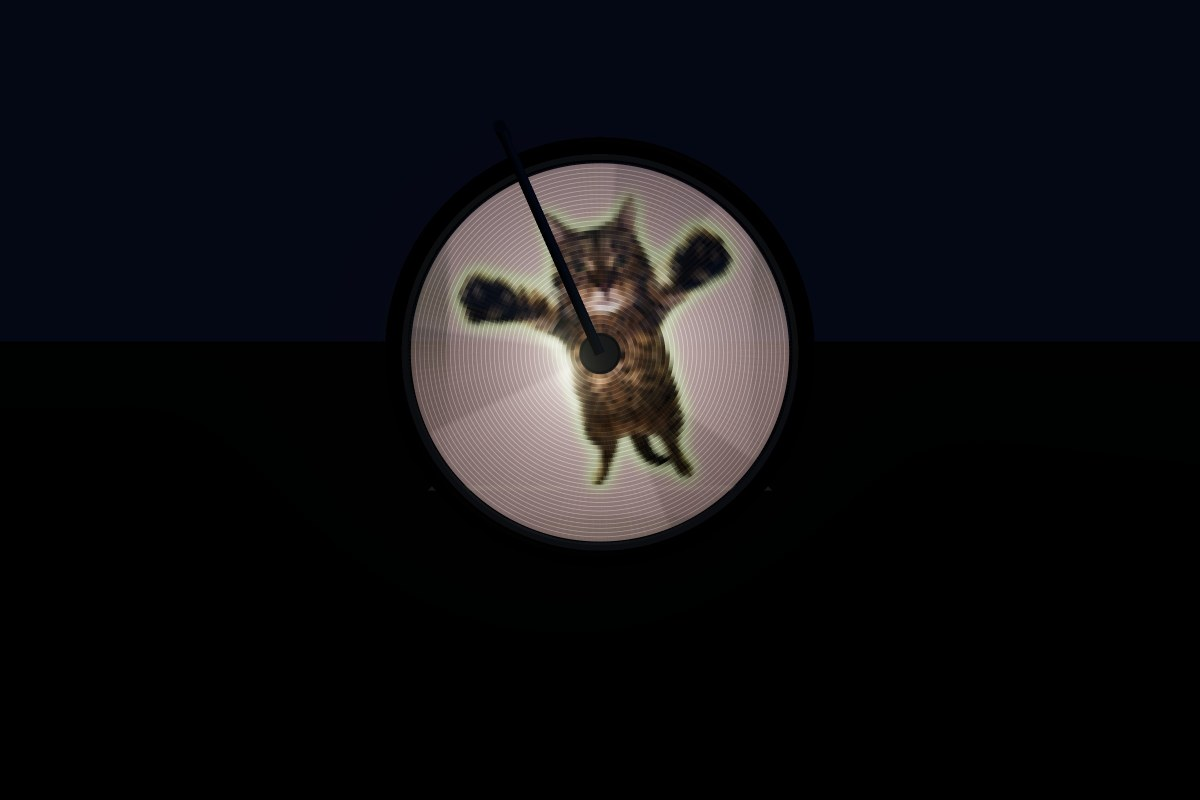
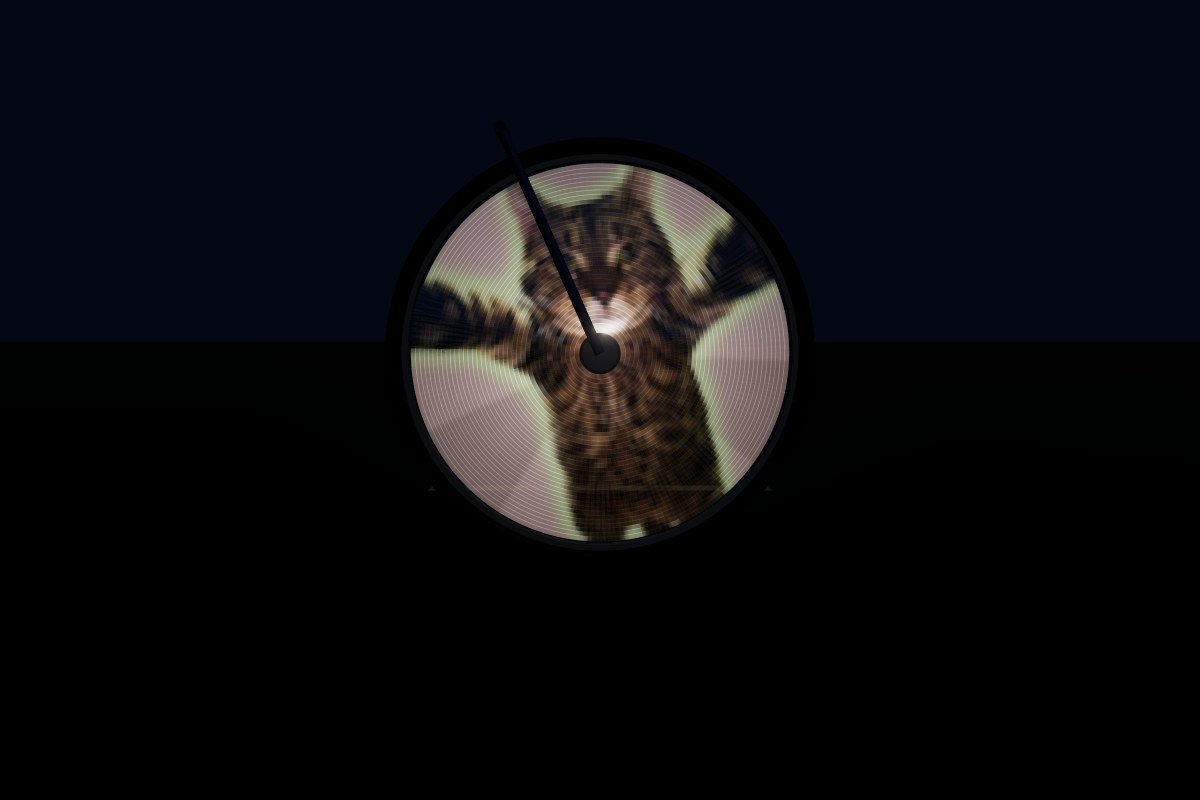
Zoom the Soup photo to 125% with the chin just above the hub

Changed region(s): [[0.3392, 0.1875, 0.6475, 0.6875]]

diff --git a/README.md b/README.md
@@ -32,7 +32,7 @@ These are all renders from the simulator, starting from the Water preset and the
   </tr>
   <tr>
     <td width="50%"><img src="docs/images/dryer-ride.jpg" alt="Colourful ribbons tumbling up the rear side of the wheel"><br><sub><b>Tumble dryer preset,</b> 12 mph, 1/4 s: the paddles carry the ribbons up the rear side of the drum until they fall back, the nearer ribbons covering the ones behind.</sub></td>
-    <td width="50%"><img src="docs/images/soup-preset.jpg" alt="A photo of a cat cropped to fill the wheel"><br><sub><b>Soup preset,</b> 15 mph, 1/2 s: your own picture (here the author's photo of a cat, from <code>media/</code>), zoomed out and moved so the hub sits on its chest, with the whole cat in view; a heavily blurred mirror of the photo fills the rest of the wheel.</sub></td>
+    <td width="50%"><img src="docs/images/soup-preset.jpg" alt="A photo of a cat cropped to fill the wheel"><br><sub><b>Soup preset,</b> 15 mph, 1/2 s: your own picture (here the author's photo of a cat, from <code>media/</code>), zoomed to 125% with its chin just above the hub; a heavily blurred mirror of the photo fills the rest of the wheel.</sub></td>
   </tr>
   <tr>
     <td width="50%"><img src="docs/images/shutter-1-30.jpg" alt="Three wedges at a 1/30 s shutter"><br><sub><b>1/30 s photo</b> at 10 mph: each of the 3 strips sweeps only 25°.</sub></td>
